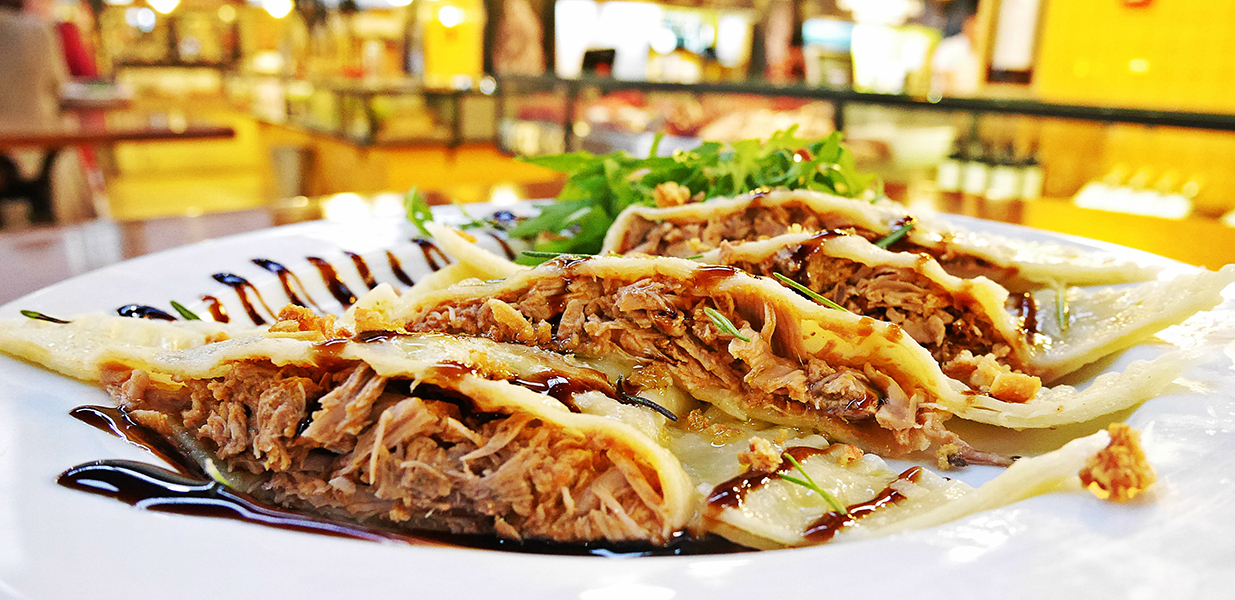
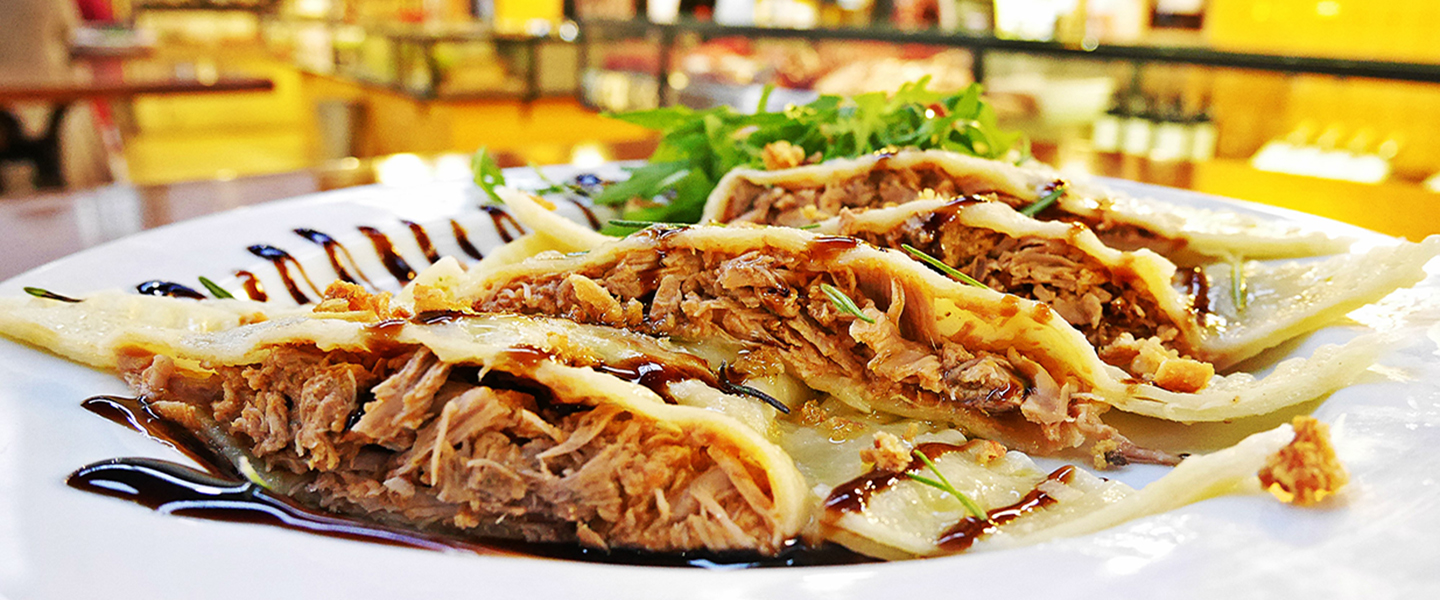
bugs solved, check FB Callitech

diff --git a/index.html b/index.html
@@ -12,8 +12,8 @@
       <meta http-equiv="X-UA-Compatible" content="IE=edge,chrome=1">
       <![endif]-->
   <title>Aldente Lisboa - Campo de Ourique</title>
-  <meta name="description" content="">
-  <meta name="author" content="WebThemez">
+  <meta name="description" content="Site do Restaurante Aldente">
+  <meta name="author" content="">
   <!--[if lt IE 9]>
           <script src="http://html5shim.googlecode.com/svn/trunk/html5.js"></script>
       <![endif]-->
@@ -63,6 +63,7 @@
           <div id="main-slider" class="flexslider">
               <ul class="slides">
                 <li>
+                  <!-- 1440x600 TAMANHO DAS FOTOS !! -->
                   <img src="images/slides/aldente3.jpg" alt="" />
                   <div class="flex-caption">
                       <h3>Bem Vindo ao Aldente</h3>
@@ -149,8 +150,6 @@
   								<li>Sem esquecer a nossa outra cena bué fixe </li>
   							</ul>
   							</div>
-
-
   					</div>
     </div>
   </section>
@@ -163,7 +162,6 @@
   </div>
 
   <!-- SECÇÃO DAS REVIEWS DO SITE  -  CAROUSEL -->
-
   <div class="carousel-reviews broun-block">
       <div class="container">
           <div class="row">
@@ -171,15 +169,36 @@
 
                   <div class="carousel-inner">
                       <div class="item active">
-
-  						<!--
-
-              CODIGO NECESSARIO PARA ADICIONAR REVIEWS AO SITE
-              
-              <div class="col-md-4 col-sm-6 hidden-sm hidden-xs">
+                  	    <div class="col-md-4 col-sm-6">
+          				    <div class="block-text rel zmin">
+  						        <a title="" href="#">Hercules</a>
+  							    <div class="mark">My rating: <span class="rating-input"><span data-value="0" class="glyphicon glyphicon-star"></span><span data-value="1" class="glyphicon glyphicon-star"></span><span data-value="2" class="glyphicon glyphicon-star"></span><span data-value="3" class="glyphicon glyphicon-star"></span><span data-value="4" class="glyphicon glyphicon-star-empty"></span><span data-value="5" class="glyphicon glyphicon-star-empty"></span>  </span></div>
+  						        <p>Lorem ipsum dolor sit amet, ea eum labitur scsstie percipitoleat fabulas complectitur deterruisset at pro. Odio quaeque reformidans est eu, expetendis intellegebat has ut, viderer invenire ut his. Has molestie percipit an.</p>
+  							    <ins class="ab zmin sprite sprite-i-triangle block"></ins>
+  					        </div>
+  							<div class="person-text rel">
+  				                <img src="images/11.png"/>
+  								<a title="" href="#">Anna</a>
+  								<i>from Glasgow, Scotland</i>
+  							</div>
+  						</div>
+              			<div class="col-md-4 col-sm-6 hidden-xs">
+  						    <div class="block-text rel zmin">
+  						        <a title="" href="#">The Purge: Anarchy</a>
+  							    <div class="mark">My rating: <span class="rating-input"><span data-value="0" class="glyphicon glyphicon-star"></span><span data-value="1" class="glyphicon glyphicon-star"></span><span data-value="2" class="glyphicon glyphicon-star-empty"></span><span data-value="3" class="glyphicon glyphicon-star-empty"></span><span data-value="4" class="glyphicon glyphicon-star-empty"></span><span data-value="5" class="glyphicon glyphicon-star-empty"></span>  </span></div>
+          						<p>Lorem ipsum dolor sit amet, ea eum labitur scsstie percipitoleat fabulas complectitur deterruisset at pro. Odio quaeque reformidans est eu, expetendis intellegebat has ut, viderer invenire ut his. Has molestie percipit an.</p>
+  					            <ins class="ab zmin sprite sprite-i-triangle block"></ins>
+  				            </div>
+  							<div class="person-text rel">
+  				                <img src="images/12.png"/>
+  						        <a title="" href="">Ella Mentree</a>
+  								<i>United States</i>
+  							</div>
+  						</div>
+  						<div class="col-md-4 col-sm-6 hidden-sm hidden-xs">
   							<div class="block-text rel zmin">
   								<a title="" href="#">Planes: Fire & Rescue</a>
-  								<div class="mark">A minha classificação: <span class="rating-input"><span data-value="0" class="glyphicon glyphicon-star"></span><span data-value="1" class="glyphicon glyphicon-star"></span><span data-value="2" class="glyphicon glyphicon-star"></span><span data-value="3" class="glyphicon glyphicon-star"></span><span data-value="4" class="glyphicon glyphicon-star"></span><span data-value="5" class="glyphicon glyphicon-star"></span>  </span></div>
+  								<div class="mark">My rating: <span class="rating-input"><span data-value="0" class="glyphicon glyphicon-star"></span><span data-value="1" class="glyphicon glyphicon-star"></span><span data-value="2" class="glyphicon glyphicon-star"></span><span data-value="3" class="glyphicon glyphicon-star"></span><span data-value="4" class="glyphicon glyphicon-star"></span><span data-value="5" class="glyphicon glyphicon-star"></span>  </span></div>
       							<p>Lorem ipsum dolor sit amet, ea eum labitur scsstie percipitoleat fabulas complectitur deterruisset at pro. Odio quaeque reformidans est eu, expetendis intellegebat has ut, viderer invenire ut his. Has molestie percipit an.</p>
   								<ins class="ab zmin sprite sprite-i-triangle block"></ins>
   							</div>
@@ -188,14 +207,15 @@
   								<a title="" href="#">Rannynm</a>
   								<i>Indonesia</i>
   							</div>
-  						</div> -->
+  						</div>
                       </div>
                       <div class="item">
                           <div class="col-md-4 col-sm-6">
           				    <div class="block-text rel zmin">
   						        <a title="" href="#">Hercules</a>
-  							    <div class="mark">A minha classificação: <span class="rating-input"><span data-value="0" class="glyphicon glyphicon-star"></span><span data-value="1" class="glyphicon glyphicon-star"></span><span data-value="2" class="glyphicon glyphicon-star"></span><span data-value="3" class="glyphicon glyphicon-star"></span><span data-value="4" class="glyphicon glyphicon-star-empty"></span><span data-value="5" class="glyphicon glyphicon-star-empty"></span>  </span></div>
-  						        <p>Esta semana vamos falar de um espaço mais indoor visto que o tempo não quer colaborar com os nossos planos de esplanada. Muitos de vós já o devem conhecer, mas não podia deixar de o mencionar! É o Aldente e é o espaço de pastas do Mercado de Campo de Ourique.							    <ins class="ab zmin sprite sprite-i-triangle block"></ins>
+  							    <div class="mark">My rating: <span class="rating-input"><span data-value="0" class="glyphicon glyphicon-star"></span><span data-value="1" class="glyphicon glyphicon-star"></span><span data-value="2" class="glyphicon glyphicon-star"></span><span data-value="3" class="glyphicon glyphicon-star"></span><span data-value="4" class="glyphicon glyphicon-star-empty"></span><span data-value="5" class="glyphicon glyphicon-star-empty"></span>  </span></div>
+  						        <p>Lorem ipsum dolor sit amet, ea eum labitur scsstie percipitoleat fabulas complectitur deterruisset at pro. Odio quaeque reformidans est eu, expetendis intellegebat has ut, viderer invenire ut his. Has molestie percipit an.</p>
+  							    <ins class="ab zmin sprite sprite-i-triangle block"></ins>
   					        </div>
   							<div class="person-text rel">
   								<img alt="" src="images/12.png">
@@ -203,7 +223,32 @@
   								<i>from Glasgow, Scotland</i>
   							</div>
   						</div>
-
+              			<div class="col-md-4 col-sm-6 hidden-xs">
+  						    <div class="block-text rel zmin">
+  						        <a title="" href="#">The Purge: Anarchy</a>
+  							    <div class="mark">My rating: <span class="rating-input"><span data-value="0" class="glyphicon glyphicon-star"></span><span data-value="1" class="glyphicon glyphicon-star"></span><span data-value="2" class="glyphicon glyphicon-star-empty"></span><span data-value="3" class="glyphicon glyphicon-star-empty"></span><span data-value="4" class="glyphicon glyphicon-star-empty"></span><span data-value="5" class="glyphicon glyphicon-star-empty"></span>  </span></div>
+          						<p>Lorem ipsum dolor sit amet, ea eum labitur scsstie percipitoleat fabulas complectitur deterruisset at pro. Odio quaeque reformidans est eu, expetendis intellegebat has ut, viderer invenire ut his. Has molestie percipit an.</p>
+  					            <ins class="ab zmin sprite sprite-i-triangle block"></ins>
+  				            </div>
+  							<div class="person-text rel">
+  								<img alt="" src="images/13.png">
+  						        <a title="" href="#">Ella Mentree</a>
+  								<i>United States</i>
+  							</div>
+  						</div>
+  						<div class="col-md-4 col-sm-6 hidden-sm hidden-xs">
+  							<div class="block-text rel zmin">
+  								<a title="" href="#">Planes: Fire & Rescue</a>
+  								<div class="mark">My rating: <span class="rating-input"><span data-value="0" class="glyphicon glyphicon-star"></span><span data-value="1" class="glyphicon glyphicon-star"></span><span data-value="2" class="glyphicon glyphicon-star"></span><span data-value="3" class="glyphicon glyphicon-star"></span><span data-value="4" class="glyphicon glyphicon-star"></span><span data-value="5" class="glyphicon glyphicon-star"></span>  </span></div>
+      							<p>Lorem ipsum dolor sit amet, ea eum labitur scsstie percipitoleat fabulas complectitur deterruisset at pro. Odio quaeque reformidans est eu, expetendis intellegebat has ut, viderer invenire ut his. Has molestie percipit an.</p>
+  								<ins class="ab zmin sprite sprite-i-triangle block"></ins>
+  							</div>
+  							<div class="person-text rel">
+  								<img alt="" src="images/11.png">
+  								<a title="" href="#">Rannynm</a>
+  								<i>Indonesia</i>
+  							</div>
+  						</div>
 
                       </div>
                   </div>

diff --git a/js/custom.js b/js/custom.js
@@ -4,9 +4,9 @@
 var customScripts = {
     profile: function () {
      	 var portfolio = $('#portfolio');
-		var items = $('.items', portfolio); 
-		var filters = $('.filters li a', portfolio); 
-	
+		var items = $('.items', portfolio);
+		var filters = $('.filters li a', portfolio);
+
 		items.imagesLoaded(function() {
 			items.isotope({
 				itemSelector: '.item',
@@ -14,7 +14,7 @@ var customScripts = {
 				transitionDuration: '0.7s'
 			});
 		});
-		
+
 		filters.click(function(){
 			var el = $(this);
 			filters.removeClass('active');
@@ -22,7 +22,7 @@ var customScripts = {
 			var selector = el.attr('data-filter');
 			items.isotope({ filter: selector });
 			return false;
-		});            
+		});
     },
     fancybox: function () {
         // fancybox
@@ -47,7 +47,7 @@ var customScripts = {
 				}else{
 						$('.header').removeClass('addBg');
 				}
-				
+
             },
             scrollChange: function ($currentListItem) {
                 //I get fired when you enter a section and I pass the list item of the section
@@ -58,16 +58,16 @@ var customScripts = {
 				}
 			}
         });
-		
+
 		$("a[href='#top']").click(function () {
                 $("html, body").animate({ scrollTop: 0 }, "slow");
                 return false;
             });
 			$("a[href='#basics']").click(function () {
-                $("html, body").animate({ scrollTop: $('#services').offset().top - 75 }, "slow"); 
+                $("html, body").animate({ scrollTop: $('#services').offset().top - 75 }, "slow");
                 return false;
             });
-    }, 
+    },
     owlSlider: function () {
         var owl = $("#owl-demo");
         owl.owlCarousel();
@@ -89,19 +89,19 @@ var customScripts = {
     },
 	waySlide: function(){
 		  	/* Waypoints Animations
-		   ------------------------------------------------------ */		   			  
-		 
-			 						 
+		   ------------------------------------------------------ */
+
+
 		},
-		fitText: function(){			  
-				setTimeout(function() {			
-				$('h1.responsive-headline').fitText(1.2, { minFontSize: '16px', maxFontSize: '30px' });			
+		fitText: function(){
+				setTimeout(function() {
+				$('h1.responsive-headline').fitText(1.2, { minFontSize: '16px', maxFontSize: '30px' });
 				}, 100);
 		},
     init: function () {
         customScripts.onePageNav();
         customScripts.profile();
-        customScripts.fancybox(); 
+        customScripts.fancybox();
         customScripts.owlSlider();
 		customScripts.waySlide();
 		customScripts.fitText();
@@ -118,12 +118,13 @@ $('document').ready(function () {
 
    // main directions
    map = new GMaps({
-      el: '#map', lat: 14.553533, lng: 121.052124, zoom: 14, zoomControl : true,
+
+      el: '#map', lat: 38.7161168, lng: -9.1671869, zoom: 17, zoomControl : true,
       zoomControlOpt: { style : 'SMALL', position: 'TOP_LEFT' }, panControl : false, scrollwheel: false
    });
 
    // add address markers
-   map.addMarker({ lat: 14.552891, lng: 121.051815, title: 'WebThemez',
+   map.addMarker({ lat: 38.7162455, lng: -9.166806, title: 'Aldente',
    infoWindow: { content: '<p>WebThemez</p>' } });
 
     $('#main-slider').flexslider({
@@ -141,28 +142,28 @@ $('document').ready(function () {
         animationSpeed      : 600,               //Integer: Set the speed of animations, in milliseconds
         initDelay           : 0,                 //{NEW} Integer: Set an initialization delay, in milliseconds
         randomize           : false,             //Boolean: Randomize slide order
-         
+
         // Usability features
         pauseOnAction       : true,              //Boolean: Pause the slideshow when interacting with control elements, highly recommended.
         pauseOnHover        : false,             //Boolean: Pause the slideshow when hovering over slider, then resume when no longer hovering
         useCSS              : true,              //{NEW} Boolean: Slider will use CSS3 transitions if available
         touch               : true,              //{NEW} Boolean: Allow touch swipe navigation of the slider on touch-enabled devices
         video               : false,             //{NEW} Boolean: If using video in the slider, will prevent CSS3 3D Transforms to avoid graphical glitches
-         
+
         // Primary Controls
         controlNav          : true,              //Boolean: Create navigation for paging control of each clide? Note: Leave true for manualControls usage
         directionNav        : true,              //Boolean: Create navigation for previous/next navigation? (true/false)
-        prevText            : "Previous",        //String: Set the text for the "previous" directionNav item
-        nextText            : "Next",            //String: Set the text for the "next" directionNav item
-         
+        prevText            : "Anterior",        //String: Set the text for the "previous" directionNav item
+        nextText            : "Seguinte",            //String: Set the text for the "next" directionNav item
+
         // Secondary Navigation
-        keyboard            : true,              //Boolean: Allow slider navigating via keyboard left/right keys
+        keyboard            : false,              //Boolean: Allow slider navigating via keyboard left/right keys
         multipleKeyboard    : false,             //{NEW} Boolean: Allow keyboard navigation to affect multiple sliders. Default behavior cuts out keyboard navigation with more than one slider present.
         mousewheel          : false,             //{UPDATED} Boolean: Requires jquery.mousewheel.js (https://github.com/brandonaaron/jquery-mousewheel) - Allows slider navigating via mousewheel
         pausePlay           : false,             //Boolean: Create pause/play dynamic element
-        pauseText           : 'Pause',           //String: Set the text for the "pause" pausePlay item
-        playText            : 'Play',            //String: Set the text for the "play" pausePlay item
-         
+        pauseText           : 'Pausa',           //String: Set the text for the "pause" pausePlay item
+        playText            : 'Continuar',            //String: Set the text for the "play" pausePlay item
+
         // Special properties
         controlsContainer   : "",                //{UPDATED} Selector: USE CLASS SELECTOR. Declare which container the navigation elements should be appended too. Default container is the FlexSlider element. Example use would be ".flexslider-container". Property is ignored if given element is not found.
         manualControls      : "",                //Selector: Declare custom control navigation. Examples would be ".flex-control-nav li" or "#tabs-nav li img", etc. The number of elements in your controlNav should match the number of slides/tabs.
